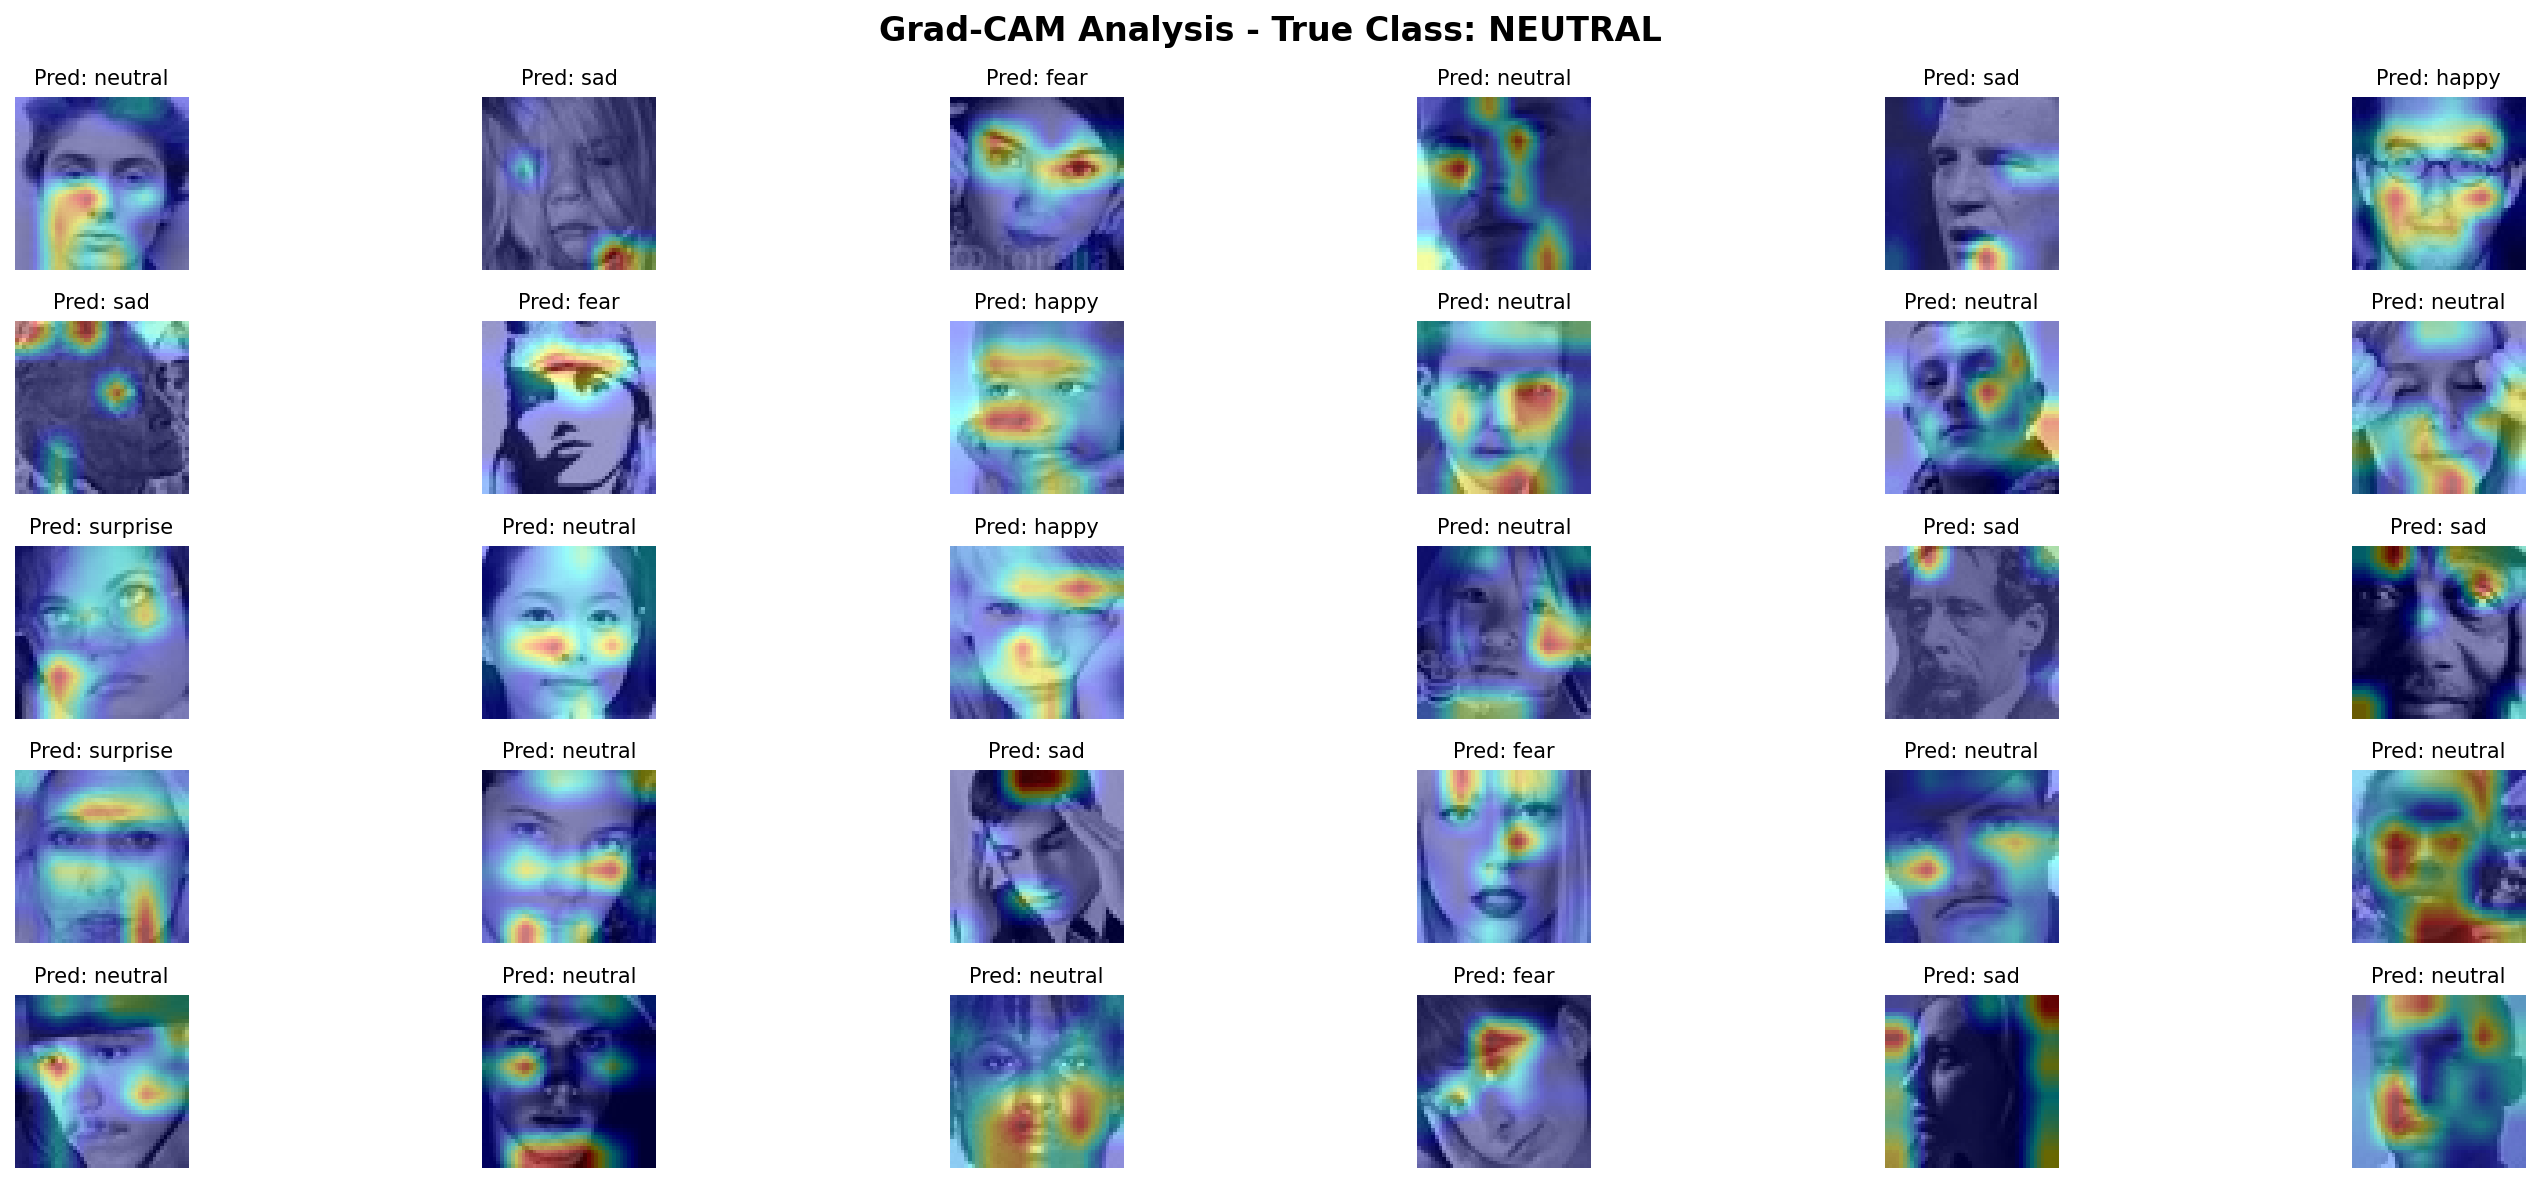
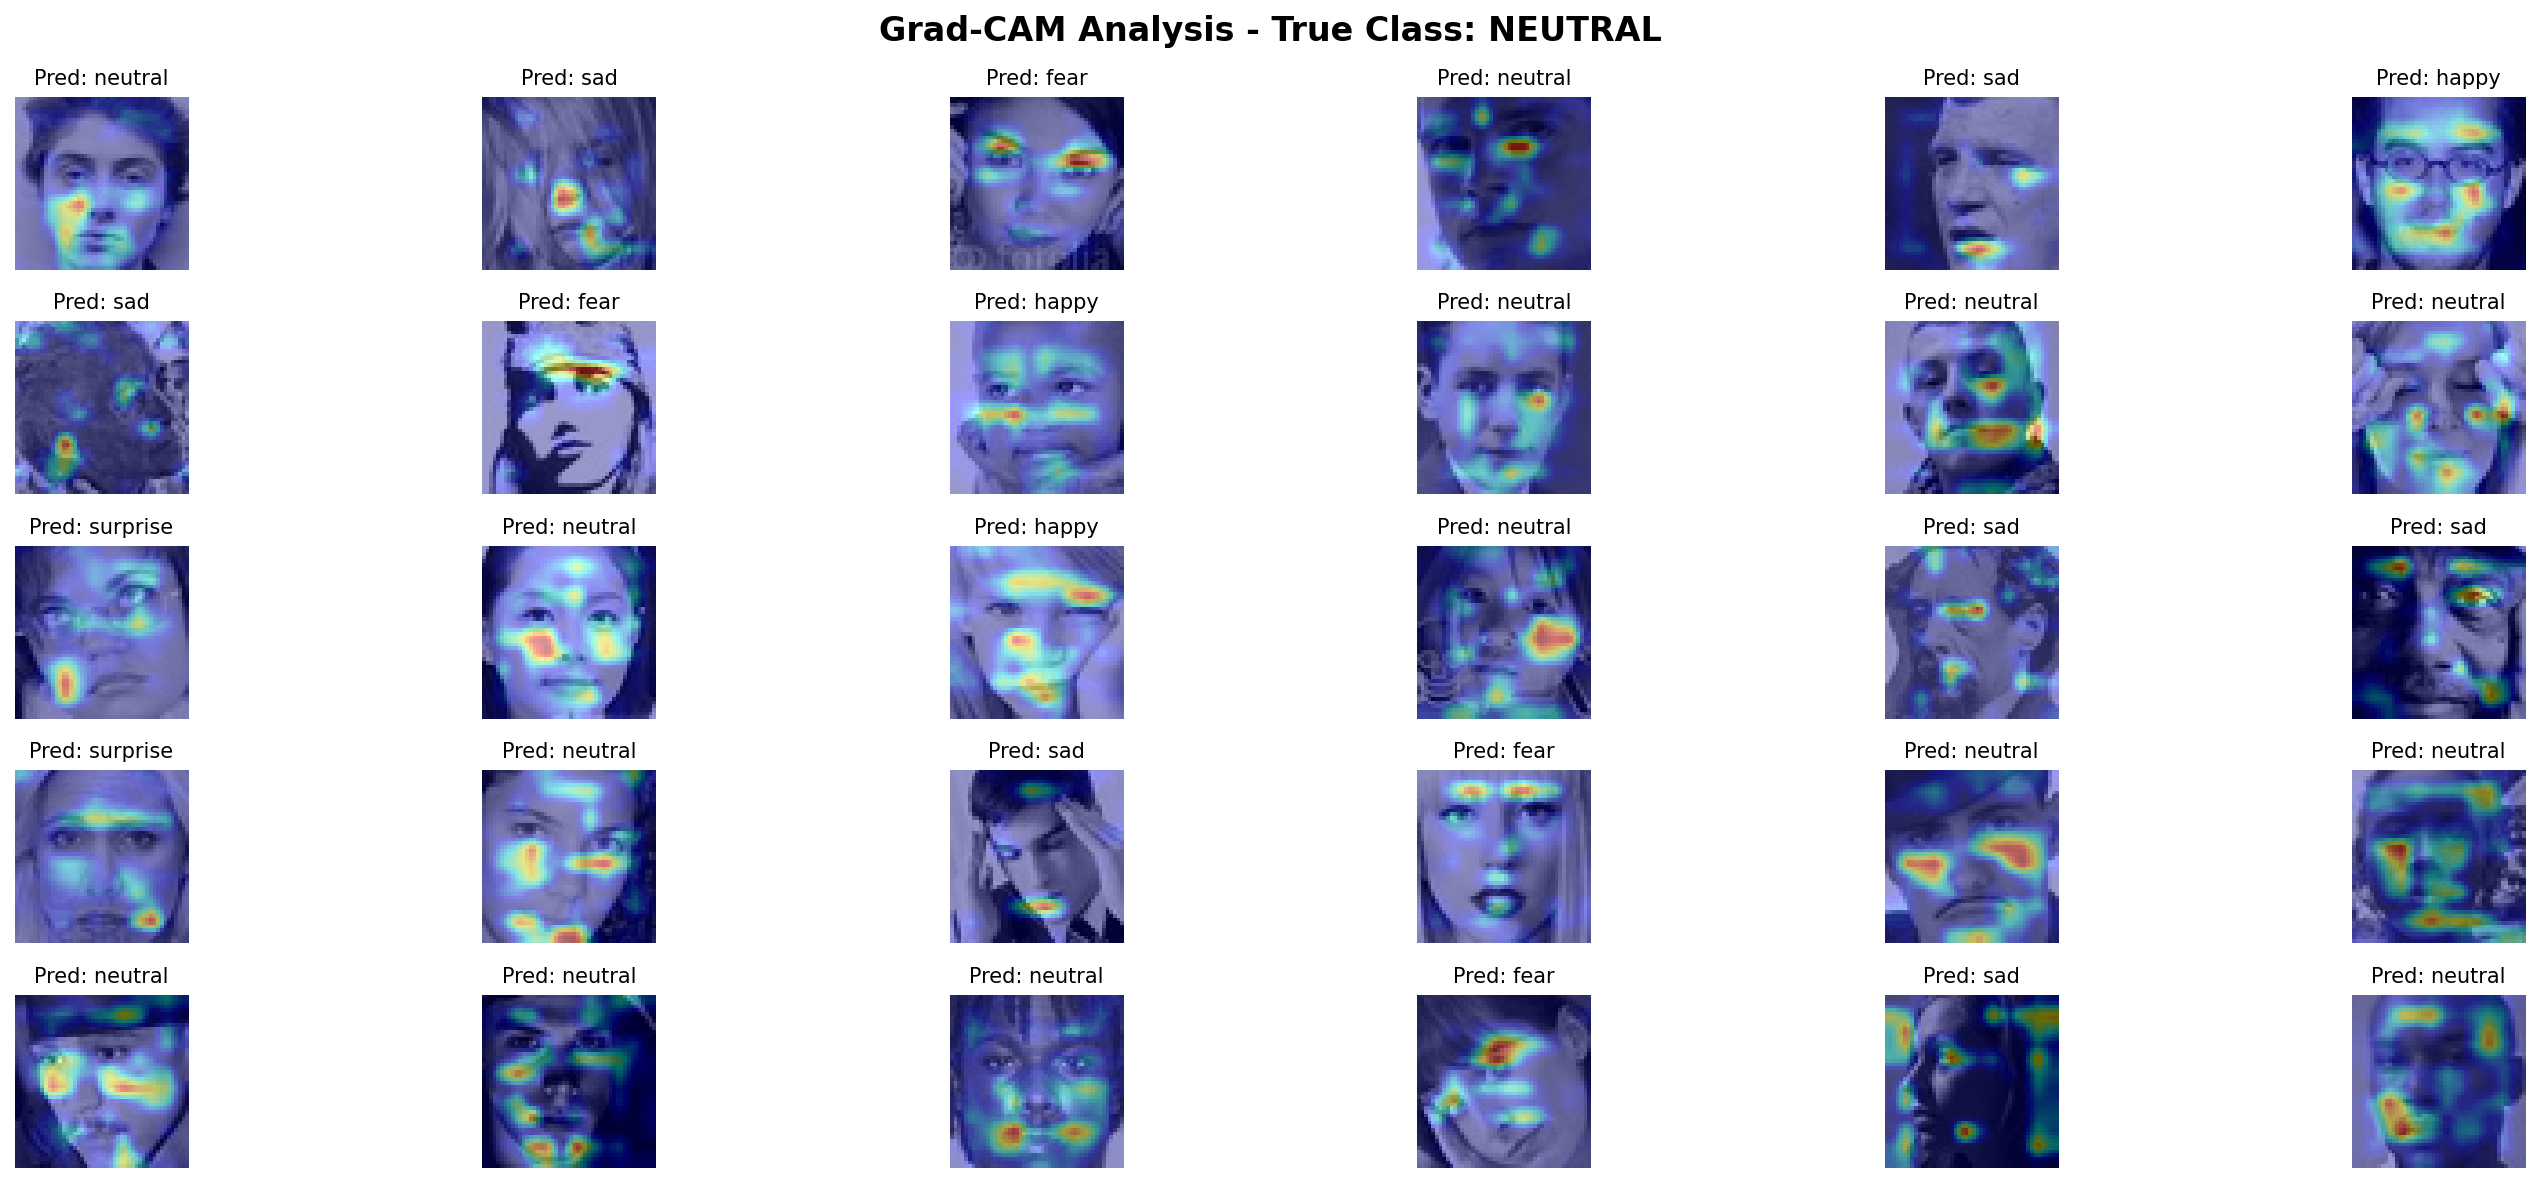
updating gradcam metrics

diff --git a/scripts/gradcam.py b/scripts/gradcam.py
@@ -8,8 +8,10 @@ import torchvision.models as models
 import cv2
 import matplotlib.pyplot as plt
 import os
-from cnn_model import EfficientFERNet
+from cnn_model import EfficientFERNet, SEBlock
 from transformers import ViTForImageClassification
+from custom_vgg import CustomVGG
+
 
 # load the model
 def find_model_and_tranform(model_type='efficient', model_path='our_cnn_50_epoch.pth'):
@@ -83,6 +85,21 @@ def find_model_and_tranform(model_type='efficient', model_path='our_cnn_50_epoch
             transforms.ToTensor(),
             transforms.Normalize(mean=[0.5, 0.5, 0.5], std=[0.5, 0.5, 0.5])
         ])
+    elif model_type == 'custom_vgg':
+        model = CustomVGG(num_classes=6)
+
+        state_dict = torch.load(model_path, map_location='cpu')
+        if 'model_state_dict' in state_dict:
+            state_dict = state_dict['model_state_dict']
+        model.load_state_dict(state_dict)
+
+        transform = transforms.Compose([
+            transforms.Resize((48, 48)),
+            transforms.Grayscale(num_output_channels=1),
+            transforms.ToTensor(),
+            transforms.Normalize(mean=[0.5], std=[0.5])
+        ])
+
         
     model.eval()
     return model, transform, class_names
@@ -99,7 +116,10 @@ class GradCAM:
         self.backward_handle = target_layer.register_full_backward_hook(self.backward_hook)
     
     def forward_hook(self, module, input, output):
-        self.activations = output[0].detach()  # output is a tuple for ViT
+        if isinstance(output, tuple):
+            self.activations = output[0].detach().clone() # output is a tuple for ViT
+        else:
+            self.activations = output.detach().clone()
     
     def backward_hook(self, module, grad_input, grad_output):
         self.gradients = grad_output[0].detach()
@@ -150,7 +170,7 @@ class GradCAM:
         else:
             weights = torch.mean(gradients, dim=(2, 3), keepdim=True)
             gradcam = torch.sum(weights * activations, dim=1, keepdim=True)
-            gradcam = torch.relu(gradcam)
+            gradcam = torch.relu(gradcam).clone()
             gradcam = gradcam.squeeze().cpu().numpy()
             gradcam = (gradcam - gradcam.min()) / (gradcam.max() - gradcam.min() + 1e-8)
         
@@ -212,7 +232,10 @@ class AttentionRollout:
 def generate_gradcam(image_path, model, transform, target_layer, target_class=None, use_attention_rollout=False):
     """Generate Grad-CAM or Attention Rollout heatmap for a given image."""    
     # Load and preprocess the image
-    image = Image.open(image_path).convert('RGB')
+    if 'CustomVGG' in str(type(model)):
+        image = Image.open(image_path).convert('L') # grayscale
+    else:
+        image = Image.open(image_path).convert('RGB')
     input_tensor = transform(image).unsqueeze(0)
     
     if isinstance(model, ViTForImageClassification) and use_attention_rollout:
@@ -234,21 +257,29 @@ def generate_gradcam(image_path, model, transform, target_layer, target_class=No
 
 
 def overlay_gradcam(image, gradcam, alpha=0.4, colormap=cv2.COLORMAP_JET):
-    """Overlay Grad-CAM heatmap on original image."""
-    # Convert PIL image to numpy if needed
+    # Convert PIL to numpy
     if isinstance(image, Image.Image):
         image_np = np.array(image)
     else:
         image_np = image
-    
+
+    # If grayscale, convert to RGB
+    if image_np.ndim == 2:  # shape (H, W)
+        image_np = cv2.cvtColor(image_np, cv2.COLOR_GRAY2RGB)
+
     # Create heatmap
     heatmap = cv2.applyColorMap(np.uint8(255 * gradcam), colormap)
     heatmap = cv2.cvtColor(heatmap, cv2.COLOR_BGR2RGB)
-    
-    # Overlay heatmap on image
+
+    # Ensure same size
+    if heatmap.shape != image_np.shape:
+        heatmap = cv2.resize(heatmap, (image_np.shape[1], image_np.shape[0]))
+
+    # Overlay
     overlayed_image = cv2.addWeighted(image_np, 1 - alpha, heatmap, alpha, 0)
-    
+
     return overlayed_image
+
 
 
 def process_class_images(test_dir, class_name, model, transform, target_layer, output_dir, num_images=30):
@@ -324,15 +355,25 @@ def analyze_all_classes(test_dir, model, transform, target_layer, class_names, o
 
 if __name__ == "__main__":
     # model, transform, class_names = find_model_and_tranform(model_type='resnet', model_path='resnet18_fer2013.pth')
-    model, transform, class_names = find_model_and_tranform(model_type='resnet', model_path='resnet50_5step_.1.pth')
+    # model, transform, class_names = find_model_and_tranform(model_type='resnet', model_path='resnet50_5step_.1.pth')
+    # model, transform, class_names = find_model_and_tranform(model_type='custom_vgg', model_path='custom_vgg_model.pth')
     # model, transform, class_names = find_model_and_tranform(model_type='vit', model_path='checkpoints/vit_fer_best.pth')
+    model, transform, class_names = find_model_and_tranform(model_type='efficient', model_path='our_cnn_50_epoch.pth')
     # set the target layer based on model type
     if isinstance(model, EfficientFERNet):
-        target_layer = model.blocks[-1]
+        for layer in reversed(model.blocks):
+            if isinstance(layer, SEBlock):
+                target_layer = layer
+                break
     elif isinstance(model, models.ResNet):
         target_layer = model.layer4[-1]
     elif isinstance(model, ViTForImageClassification):
-        target_layer = model.vit.encoder.layer[-1]  # Use the last encoder layer for Grad-CAM
+        target_layer = model.vit.encoder.layer[-1]
+    elif 'CustomVGG' in str(type(model)):
+        for layer in reversed(model.features):
+            if isinstance(layer, nn.Conv2d):
+                target_layer = layer
+                break
     else:
         raise ValueError("Unsupported model type for Grad-CAM.")
     
